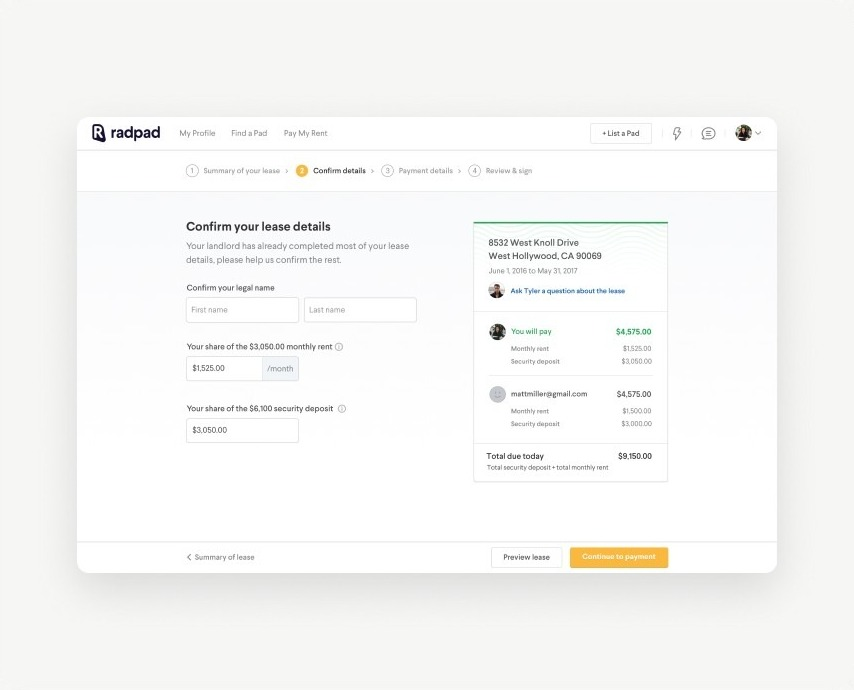
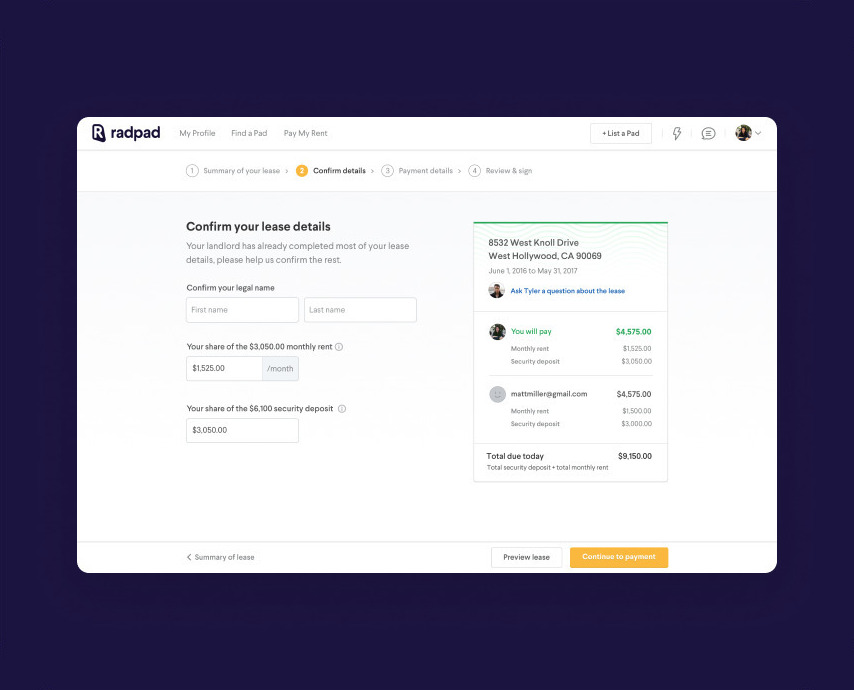
More work round 3: no white edges, whole Acura ads, popups match tiles, grey browser dots, dark RadPad screens (#11)
- coronavirus.gov and Boombox tiles: no white hairlines at the edges
- Acura tile uses the ads' own shape, so the magazines show whole
- Popups open on the same picture as their tile: Local Kitchens on the kitchen photo,
  the Juzzy deck on the table (opening on Rough Cut), Boombox in its dark frame
- Browser dots are grey instead of red, yellow and green on every thumbnail and hero
- RadPad case study pairs use the dark navy background from Figma

Claude-Session: https://claude.ai/code/session_01DoMJVehyfvc8FWri9d8f8G

diff --git a/src/content/more-work.ts b/src/content/more-work.ts
@@ -43,6 +43,7 @@ export interface MoreWorkItem {
     credits?: string;
     link?: { label: string; href: string }; // optional link out, shown under the description
     slides: Slide[];
+    start?: number; // which slide opens first (0 = the first); match it to the tile's picture
   };
 }
 
@@ -79,15 +80,16 @@ const items = {
       slides: [
         {
           kind: "scroll",
-          size: [720, 511],
+          size: [720, 535],
           alt: "The Boombox event page, scrolling from top to bottom",
+          // Same dark frame as the tile (tile numbers × 720 / 285.333)
           scroll: {
-            base: "",
+            base: "base-boombox-wide.jpg",
             page: "page-boombox.jpg",
-            window: { x: 0, y: 0, w: 720, h: 511 },
-            pageHeight: 2182.5,
-            keys: [[1.5, 0], [31.5, -1669.5], [33.5, -1669.5], [35.5, 0]],
-            loop: 37,
+            window: { x: 40.37, y: 40.37, w: 639.25, h: 453.71, radius: 15 },
+            pageHeight: 1937.8,
+            keys: [[1.5, 0], [38.5, -1480], [41, -1480], [45, 0]],
+            loop: 46.5,
           },
         },
         { kind: "image", src: "s-boombox-2.jpg", alt: "Picking a date and time for the event" },
@@ -107,17 +109,18 @@ const items = {
       description:
         "Vibe, the brand presentation for Uncle Juzzy’s, an Israeli street food restaurant that never opened. It covers what sets it apart, its personality, its mission and three visual concepts to pick from.",
       credits: "Made with: Becca Rabinowitz",
+      start: 6, // Rough Cut, the slide shown on the tile
       slides: [
-        { kind: "image", src: "s-vibe-1.jpg", alt: "Cover: Vibe" },
-        { kind: "image", src: "s-vibe-2.jpg", alt: "Let’s recap: differentiators, personality, mission" },
-        { kind: "image", src: "s-vibe-3.jpg", alt: "Key differentiators: understated, nostalgic, done the right way" },
-        { kind: "image", src: "s-vibe-4.jpg", alt: "Who we are and who we’re not" },
-        { kind: "image", src: "s-vibe-5.jpg", alt: "The Uncle Juzzy’s mission" },
-        { kind: "image", src: "s-vibe-6.jpg", alt: "Visual concepts: let’s pick a direction" },
-        { kind: "image", src: "s-vibe-7.jpg", alt: "Concept 01: Rough Cut" },
-        { kind: "image", src: "s-vibe-8.jpg", alt: "Concept 02: Color & Chaos" },
-        { kind: "image", src: "s-vibe-9.jpg", alt: "Concept 03: Contemporary Nostalgia" },
-        { kind: "image", src: "s-vibe-10.jpg", alt: "Thank you" },
+        { kind: "image", src: "s-vibe-1-table.jpg", alt: "Cover: Vibe" },
+        { kind: "image", src: "s-vibe-2-table.jpg", alt: "Let’s recap: differentiators, personality, mission" },
+        { kind: "image", src: "s-vibe-3-table.jpg", alt: "Key differentiators: understated, nostalgic, done the right way" },
+        { kind: "image", src: "s-vibe-4-table.jpg", alt: "Who we are and who we’re not" },
+        { kind: "image", src: "s-vibe-5-table.jpg", alt: "The Uncle Juzzy’s mission" },
+        { kind: "image", src: "s-vibe-6-table.jpg", alt: "Visual concepts: let’s pick a direction" },
+        { kind: "image", src: "s-vibe-7-table.jpg", alt: "Concept 01: Rough Cut" },
+        { kind: "image", src: "s-vibe-8-table.jpg", alt: "Concept 02: Color & Chaos" },
+        { kind: "image", src: "s-vibe-9-table.jpg", alt: "Concept 03: Contemporary Nostalgia" },
+        { kind: "image", src: "s-vibe-10-table.jpg", alt: "Thank you" },
       ],
     },
   },
@@ -175,7 +178,7 @@ const items = {
   acura: {
     title: "Acura",
     description: "Magazine ads for the TLX, MDX and RLX launches at Mullen.",
-    size: [285, 214],
+    size: [1440, 960], // the ads' own shape, so the magazines show whole
     media: { kind: "cycle", srcs: ["s-acura-1.jpg", "s-acura-2.jpg", "s-acura-3.jpg", "s-acura-4.jpg"], every: 0.8 },
     popup: {
       project: "Acura · Mullen",
@@ -203,7 +206,7 @@ const items = {
         "A kitchen display system for busy lines. Orders flow to the right station, timers keep tickets moving and cooks bump orders with a single tap.",
       credits: "Made with: Lukas Pfeiffer and the Local Kitchens leadership team.",
       slides: [
-        { kind: "image", src: "s-lk-1.jpg", alt: "The kitchen display showing orders by station" },
+        { kind: "image", src: "s-lk-1-kitchen.jpg", alt: "The kitchen display showing orders by station, in a restaurant kitchen" },
         { kind: "image", src: "s-lk-2.jpg", alt: "Time in the kitchen: photos of the line and the display in use" },
       ],
     },
